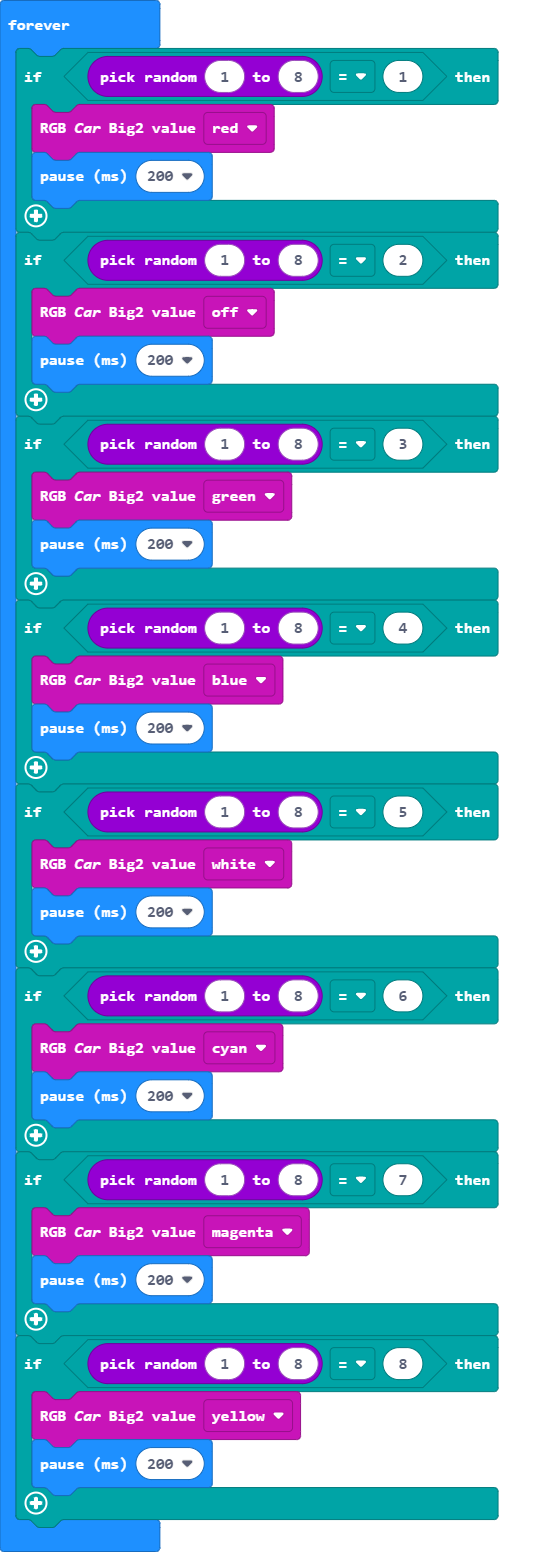
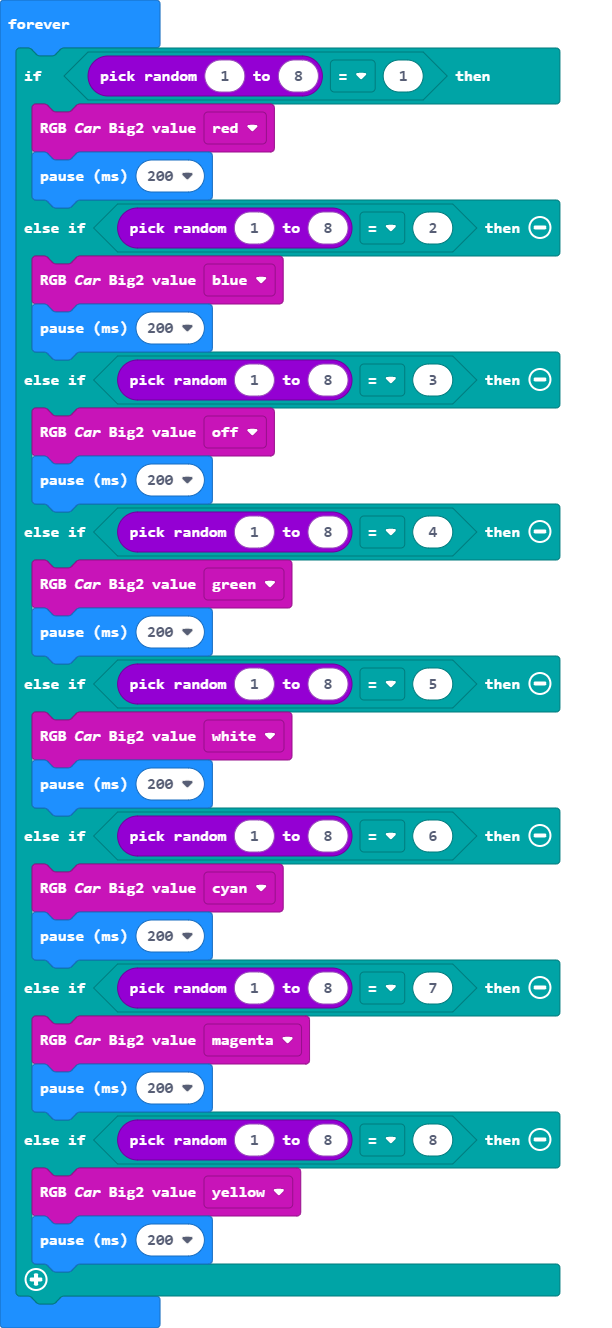
Update main.blocks, main.ts

diff --git a/main.ts b/main.ts
@@ -2,32 +2,25 @@ basic.forever(function () {
     if (randint(1, 8) == 1) {
         mbit_Robot.RGB_Car_Big2(mbit_Robot.enColor.Red)
         basic.pause(200)
-    }
-    if (randint(1, 8) == 2) {
-        mbit_Robot.RGB_Car_Big2(mbit_Robot.enColor.OFF)
-        basic.pause(200)
-    }
-    if (randint(1, 8) == 3) {
-        mbit_Robot.RGB_Car_Big2(mbit_Robot.enColor.Green)
-        basic.pause(200)
-    }
-    if (randint(1, 8) == 4) {
+    } else if (randint(1, 8) == 2) {
         mbit_Robot.RGB_Car_Big2(mbit_Robot.enColor.Blue)
         basic.pause(200)
-    }
-    if (randint(1, 8) == 5) {
+    } else if (randint(1, 8) == 3) {
+        mbit_Robot.RGB_Car_Big2(mbit_Robot.enColor.OFF)
+        basic.pause(200)
+    } else if (randint(1, 8) == 4) {
+        mbit_Robot.RGB_Car_Big2(mbit_Robot.enColor.Green)
+        basic.pause(200)
+    } else if (randint(1, 8) == 5) {
         mbit_Robot.RGB_Car_Big2(mbit_Robot.enColor.White)
         basic.pause(200)
-    }
-    if (randint(1, 8) == 6) {
+    } else if (randint(1, 8) == 6) {
         mbit_Robot.RGB_Car_Big2(mbit_Robot.enColor.Cyan)
         basic.pause(200)
-    }
-    if (randint(1, 8) == 7) {
+    } else if (randint(1, 8) == 7) {
         mbit_Robot.RGB_Car_Big2(mbit_Robot.enColor.Pinkish)
         basic.pause(200)
-    }
-    if (randint(1, 8) == 8) {
+    } else if (randint(1, 8) == 8) {
         mbit_Robot.RGB_Car_Big2(mbit_Robot.enColor.Yellow)
         basic.pause(200)
     }
